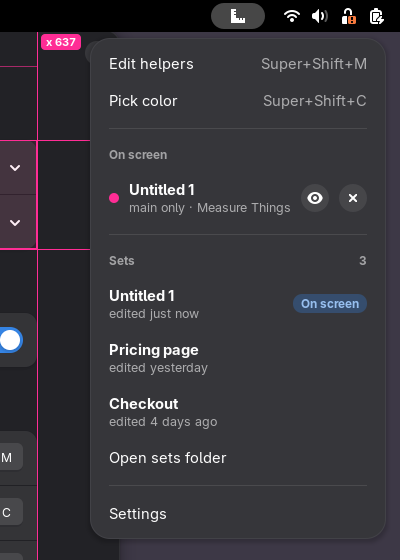
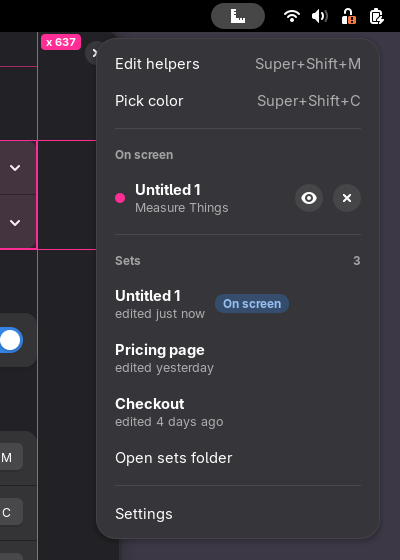
test: cover the SET-P1 rules the adoption added
Each fix of the adoption gets an end-to-end check: the badge of a set a drag
creates, a drag cancelled before its first commit, rename and delete on screen,
the trash failure with commits held meanwhile, a delete while a write is in
flight, the selection and the gesture on minimize and workspace change, the
click on a set on screen after minimizing it, the shortcuts while the file
chooser is open, a mockup replaced at the same path, the sets folder created
on write, the migration limit, and a native popup menu that stays mapped under
edit mode's grab and blocks targeting. The test window can open a popup menu
for that. The log check lets the warnings these checks provoke through. The
README describes rename, delete, and the mockup as shipped; the menu screenshot
no longer shows the "main only" stub.

Claude-Session: https://claude.ai/code/session_01WKTCdTF6gLpSTi3UcZjAp7

diff --git a/scripts/test-window.js b/scripts/test-window.js
@@ -2,8 +2,10 @@
 // A plain GTK 4 window for the headless tests: a flat background with colored blocks at known CSS
 // positions, and no visible title bar, so CSS (0, 0) is the frame's top-left corner.
 // Usage: test-window.js TITLE WIDTHxHEIGHT BACKGROUND [X,Y,WIDTH,HEIGHT,COLOR ...]
+// With TEST_WINDOW_MENU=X,Y it also opens a native popup menu there, once the window shows.
 import Gdk from 'gi://Gdk?version=4.0';
 import Gio from 'gi://Gio';
+import GLib from 'gi://GLib';
 import Gtk from 'gi://Gtk?version=4.0';
 import {programArgs} from 'system';
 
@@ -38,5 +40,19 @@ app.connect('activate', () => {
     window.set_titlebar(new Gtk.Box());
     window.set_child(fixed);
     window.present();
+
+    const menuAt = GLib.getenv('TEST_WINDOW_MENU');
+    if (menuAt) {
+        const [x, y] = menuAt.split(',').map(Number);
+        const menu = new Gio.Menu();
+        menu.append('First entry', null);
+        menu.append('Second entry', null);
+        const button = new Gtk.MenuButton({popover: Gtk.PopoverMenu.new_from_model(menu), label: 'Menu'});
+        fixed.put(button, x, y);
+        GLib.timeout_add(GLib.PRIORITY_DEFAULT, 500, () => {
+            button.popup();
+            return GLib.SOURCE_REMOVE;
+        });
+    }
 });
 app.run([]);

diff --git a/src/manager.js b/src/manager.js
@@ -400,7 +400,7 @@ export class Manager {
             if (!written)
                 return;
             if (leftOut > 0)
-                notify(`The v0.2 helpers past ${MAX_HELPERS} were left out: ${leftOut} in all.`);
+                notify(`${leftOut} v0.2 helpers were left out: a set holds at most ${MAX_HELPERS}.`);
             this._changed();
         }
         settings.set_boolean('migrated', true);

diff --git a/README.md b/README.md
@@ -21,7 +21,7 @@ A GNOME Shell extension with measuring tools for web and UI work. It draws pixel
 ## Features
 
 - **Sets on windows**: drawing on a window starts a set, `Untitled 1`, saved at once in its own file. Its helpers are drawn inside the window: they move with it, hide behind the windows in front of it, and positions are relative to its top-left corner. A badge in the window's bottom-right corner names the set; in edit mode, a click on it opens the set's menu.
-- **Library**: the top bar menu lists the sets on screen, which the eye hides and ✕ removes from the screen, and every saved set, which a click loads onto a window. Sets can be renamed, deleted, and saved under a new name.
+- **Library**: the top bar menu lists the sets on screen, which the eye hides and ✕ removes from the screen and a click edits in its window, and every saved set, which a click loads onto a window. Sets can be renamed and deleted to the trash, on screen or not, and saved under a new name. A set that cannot go to the trash stays, with a notice.
 - **Guides**: horizontal and vertical 1-pixel lines labeled with their position. The gap between neighboring parallel guides is shown live, which makes alignment checks quick.
 - **Measuring rectangles**: drag to draw, then move, resize from any edge or corner, or nudge with the arrow keys. The label shows the size, the position too when the rectangle is selected, and the distance to the nearest helper on each side.
 - **Area measuring**: press <kbd>D</kbd> in edit mode to see the width and height of the area under the pointer, found from the screen pixels, like a button or a padding. <kbd>Enter</kbd> turns it into a rectangle.
@@ -29,7 +29,7 @@ A GNOME Shell extension with measuring tools for web and UI work. It draws pixel
 - **Undo**: <kbd>Ctrl</kbd>+<kbd>Z</kbd> and <kbd>Ctrl</kbd>+<kbd>Shift</kbd>+<kbd>Z</kbd> in edit mode, per set.
 - **Click-through**: helpers let the pointer through to their window. Only edit mode captures input.
 - **Column grid**: a layout grid (columns, gutter, side margin, optional centered max width) laid over the set's window.
-- **Mockup**: lays a design image over the window at its CSS size and half opacity, to compare a page with it. Move it with a right-drag in edit mode.
+- **Mockup**: lays a design image over the window at its CSS size and half opacity, to compare a page with it. Move it with a right-drag in edit mode. An image replaced at the same path shows its new content.
 - **Set settings**: from the badge menu, each set has its name, helper color, browser zoom, grid, and mockup image.
 - **Color picker**: a loupe magnifies the pixels under the pointer; a click copies the color as hex, `rgb()`, or `hsl()`.
 - **CSS pixels**: values are shown in CSS pixels, so they match your stylesheet on a scaled display (for example 125%). Set the browser zoom of a set when the page is not at 100%, or switch to device pixels in the preferences.
